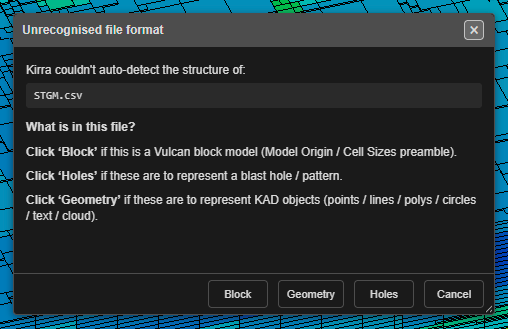
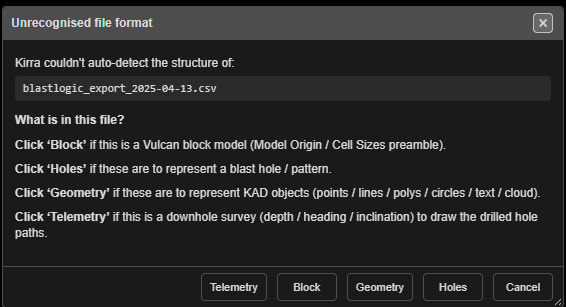
Docs: Custom CSV import rewritten for the new Map Columns layout, charging slots and Charge Check (Kirra 1.1.36.61)
- Map Columns: presets (save, update, delete, export, import), file settings,
  Fields to Import ticks, Column Mapping numbered from 1, Negative below grade,
  burden / spacing / connector curve, previews.
- Charging: slot picker for decks and primers, one deck type for every hole,
  primer Metres above toe, split character and piece, presets keep the slots.
- Charge Check after a charged import: catalogue product pick, Re-check,
  Fix Products, with before / after captures.
- Header matching: two-letter codes only match a whole header.
- Captured from a BlastLogic design export with the DESIGN-BLASTLOGIC preset.

Changed region(s): [[0.0, 0.0, 1.0, 1.0]]

diff --git a/importing/csv-formats.md b/importing/csv-formats.md
@@ -203,70 +203,109 @@ If you have an unusual header layout, use **Custom CSV** instead — it does hea
 
 ## Custom CSV Import
 
-If your CSV does not match a preset (different column order, different field names, extra columns), use **Custom CSV** on the **Blasts** tab of the Import dialog. The separator — comma, tab, semicolon and so on — is detected automatically.
+If your CSV does not match a preset (different column order, different field names, extra columns), use **Custom CSV**. It works with exports from other systems — the example below is a 217-column BlastLogic design export. The separator — comma, tab, semicolon and so on — is detected automatically.
 
 ![Import dialog — Blasts tab](../screenshots/filemanager2.png)
 *Custom CSV is the first entry on the Blasts tab — "Pick your own column order, units, and custom fields".*
 
-1. Open the **Import** dialog
-2. **Blasts** tab → **Custom CSV** → click **Open**
-3. Choose your `.csv` file. (For a `.txt`, drop it onto the canvas and choose **Holes**.)
-4. The **Import CSV: Map Columns** dialog opens — review the auto-detected mapping (or override manually) and click **Import**
+There are two ways in:
+
+- **Import dialog** — **Blasts** tab → **Custom CSV** → **Open**, then choose your file.
+- **Drag and drop** — drop the `.csv` or `.txt` onto the canvas. Kirra asks what is in the file;
+  click **Holes**.
+
+![The Unrecognised file format dialog, asking whether the file holds a block model, holes, geometry or a downhole survey](../screenshots/UnrecognisedCSVBlockChoice.png)
+*A dropped CSV that Kirra cannot place asks what it holds: **Telemetry**, **Block**, **Geometry** or **Holes**.*
+
+Either way the **Import CSV: Map Columns** dialog opens.
 
 ### The Map Columns dialog
 
-![Custom CSV Import — Map Columns dialog](../screenshots/CustomCSVImport-MapColumns.png)
-*Import CSV: Map Columns — file header, dialog-wide settings, column mapping (left), and live preview (right).*
+![Import CSV: Map Columns with the DESIGN-BLASTLOGIC preset applied: settings at the top, Fields to Import ticks on the left, Column Mapping in the middle, and the Original and Mapped Data previews on the right](../screenshots/CustomCSVImport-MapColumns.png)
+*A BlastLogic export with the **DESIGN-BLASTLOGIC** preset applied. The ticks on the left choose
+the fields, the middle column says where each one comes from, and the previews on the right show
+the file and the result.*
 
-The dialog shows the file name and row / column counts at the top, followed by dialog-wide settings, the column mapper, and a live preview.
+The dialog has five parts, top to bottom and left to right:
 
-#### Dialog-wide settings
+1. **Preset** — saved mappings.
+2. **File and settings** — the file name, its rows and columns, and the settings that apply to the
+   whole file.
+3. **Fields to Import** — a tick per Kirra field.
+4. **Column Mapping** — the file column each ticked field comes from, and the charging decks and
+   primers.
+5. **Original Data Preview** and **Mapped Data Preview** — every row of the file, before and after
+   the mapping. Both scroll.
+
+#### Presets
+
+A preset saves everything in the dialog — the settings, the ticks, the mapping and the charging
+slots — so a file from the same source imports in one step next time.
+
+| Control | What it does |
+|---|---|
+| **Preset** dropdown | Applies a saved preset. |
+| **Name** | Type a name, then press **+** to save it. Edit it while a preset is selected to rename that preset. |
+| **+** | Saves the current settings as a new preset. |
+| **Save** | Updates the selected preset from the current settings. |
+| **Bin** | Deletes the selected preset. |
+| **Export** | Saves the selected preset to a JSON file — or every preset in the list when none is selected. |
+| **Import** | Loads presets from a JSON file. |
+
+Presets are kept in Kirra for the workspace you are in. They do not travel in a KAP, so use
+**Export** and **Import** to move them to another workspace or computer.
+
+#### Settings for the whole file
 
 | Control | Purpose |
 |---------|---------|
-| **Header rows to skip** | Number of rows to ignore at the top of the file (default 1) |
-| **Column Detection** | **Auto detect columns** (match the header names — the default), **Use last used column order**, or **Manual - don't detect columns** |
-| **Duplicate Handling** | Radio buttons — **Update by Blast+ID** (default), **Update by location** (0.01 m tolerance), **Skip duplicates** |
-| **Angle Convention** | Dropdown — **Angle (0° = vertical)** for Kirra's native convention, or *Dip (0° = horizontal)* to convert (`90 − value`) |
-| **Diameter Units** | Dropdown — `mm` (default), `m`, `in` — values are converted to mm on import |
+| **Header rows to skip** | Rows to ignore at the top of the file (1 to start with). |
+| **Column Detection** | **Auto detect columns** (match the header names), **Use last used column order**, or **Manual - don't detect columns**. |
+| **Auto-detect spatial rows** | Ticked to start with. See [Smart row detection](#smart-row-detection). |
+| **Duplicate Handling** | **Update by Blast+ID** (the default), **Update by location** (0.01 m tolerance), or **Skip duplicates**. |
+| **Angle Convention** | **Angle (0° = vertical)**, Kirra's own, or **Dip (0° = horizontal)**, converted as 90 − value. |
+| **Diameter Units** | **mm**, **m** or **inches** — converted to mm on import. |
 
-#### Column Mapping panel
+#### Fields to Import
 
-The left side groups Kirra fields by category. Each row has a dropdown — pick which **CSV column** in the file (`Col 1: <name>`, `Col 2: <name>`, …) supplies that Kirra field, or leave it as `-- calculate --` to let Kirra derive it from the other fields.
+The ticks on the left choose which Kirra fields the file supplies. Only ticked fields get a row in
+**Column Mapping**. Fields marked **\*** are required and always imported.
 
 | Group | Fields |
 |-------|--------|
-| **Hole Identifiers** | Blast Name, **Hole ID** (required, marked with *), Hole Type, Row ID, Position ID |
-| **Hole Location - Collar** | **Start X (mE)** *, **Start Y (mN)** *, **Start Z (mRL)** * (all required) |
-| **Hole Location - End/Toe** | End X (mE), End Y (mN), End Z (mRL) |
-| **Hole Location - Grade** | Grade X (mE), Grade Y (mN), Grade Z (mRL) |
-| **Hole Geometry** | Hole Angle/Dip, Hole Bearing, Hole Length, Bench Height (m), Subdrill (m), Diameter |
-| **Timing & Connections** | From Hole ID, Timing Delay (ms), Initiation Time, Tie Color |
+| **Hole Identifiers** | Blast Name, **Hole ID\***, Hole Type, Row ID, Position ID |
+| **Hole Location - Collar** | **Start X(mE)\***, **Start Y(mN)\***, **Start Z(mRL)\*** |
+| **Hole Location - End/Toe** | End X(mE), End Y(mN), End Z(mRL) |
+| **Hole Location - Grade** | Grade X(mE), Grade Y(mN), Grade Z(mRL) |
+| **Hole Geometry** | Hole Angle/Dip, Hole Bearing, Hole Length, Bench Height(m), Subdrill(m), Diameter, Burden (m), Spacing (m) |
+| **Timing & Connections** | From Hole ID, Timing Delay (ms), Initiation Time, Tie Color, Connector Curve (°) |
 | **Measured Values** | Measured Length, Measured Mass, Measured Comment |
-| **Charging (decks & primers)** | Shown when the file has deck or primer columns — see [Charging columns](#charging-columns-v10270) |
 
-Required fields are marked with **`*`** and shaded pink in the preview until mapped.
+#### Column Mapping
 
-A preset bar at the top of the dialog saves a mapping, so a file from the same source
-imports in one click next time.
+Each ticked field has a dropdown listing the file's columns as **Col 1: name**, **Col 2: name**
+and so on, numbered from 1 as a spreadsheet counts them. An empty column is marked **(empty)** and
+cannot be picked. A field that is not required can be left on **-- calculate --**, and Kirra
+derives it from the others.
 
-#### Live preview panels (right side)
+**Subdrill** has one extra tick:
 
-| Panel | Shows |
-|-------|-------|
-| **Original Data Preview** | Top of the source file with column names as Kirra read them |
-| **Mapped Data Preview** | What each Kirra field will receive after the mapping is applied. Pink-highlighted cells are required fields that are not yet mapped |
+- **Negative below grade** — tick it when the file stores subdrill as a negative number below grade,
+  as BlastLogic's *Design charge standoff* does. Kirra flips the sign, so a −0.3 in the file becomes
+  0.3 m of subdrill.
 
-#### Footer
+#### Previews and the footer
 
-| Button | Action |
-|--------|--------|
-| **Cancel** | Discard the mapping and close |
-| **Import** *(green)* | Apply the mapping, run the parser, and load the holes |
+The **Mapped Data Preview** shows what each Kirra field will receive. A required field that is not
+mapped yet is shaded pink. **Import** (green) loads the holes; **Cancel** closes without importing.
+
+After the import a message says how many holes came in, for example *Imported 370 holes
+successfully*. If charging came in too, **Charge Check** follows — see
+[Check the charging](#check-the-charging).
 
 ### Header auto-detection
 
-`CsvColumnAutoDetect.autoDetectColumns()` scans the header row, normalises each header (lowercase, alphanumeric only), and matches against a keyword list per Kirra field. Match priority:
+With **Auto detect columns**, Kirra reads each header in lower case with the punctuation removed, and matches it against a list of names for each Kirra field. Match priority:
 
 1. **Exact match**
 2. **Longest matching keyword**
@@ -283,6 +322,9 @@ Examples of headers Kirra recognises out of the box:
 | `Bearing`, `Azimuth` | `holeBearing` |
 | `Dip` | interpreted via `angle_convention` (dip-from-horizontal converts to Kirra's angle-from-vertical as `90 − value`) |
 | `Diameter`, `Dia` | `holeDiameter` (with unit conversion) |
+
+Short codes of two letters — `cx`, `cy`, `gx`, `gy`, `tx`, `rl` and so on — only match a header that is
+that code alone, ignoring a unit in brackets: `GY (m)` matches Grade Y, but `Energy` does not.
 
 A bare `X`, `Y` or `Z` header is deliberately **not** matched: it would also match `EndX`,
 `ToeX` and so on. Map those columns by hand. Any header Kirra does not recognise can be
@@ -302,7 +344,7 @@ Subdrill is always the **vertical Δz**, not along-hole.
 
 ### Smart row detection
 
-For files without explicit `rowID` / `posID` (this always runs):
+For files without a Row ID or Position ID:
 
 - **Alphanumeric IDs** (e.g. `A1, A2, B1`) — letter becomes the row, number becomes the position
 - **Pure numeric** — fits holes to linear sequences using collar XY (tolerance `2 × diameter`)
@@ -335,13 +377,85 @@ Invalid coordinates **do not abort** the import:
 - `grade ← collar` when the grade is bad
 - The rows that fell back are listed in the browser console
 
-### Charging columns (v1.0.270+)
+### Charging columns
 
-When the first row has any `deck…[N]` or `primer…[N]` header (e.g. `deckType[1]`, `primerDepth[2]`), the dialog shows **Import charging (N decks, M primers per hole)**, ticked. Each hole's charging is rebuilt from the deck and primer cells, including verbatim `fx:` formula strings. Untick it to import the holes without charging; the slot list lets you check or change which columns feed each deck and primer.
+**Charging (decks & primers)** sits at the bottom of **Column Mapping**. It brings each hole's decks
+and primers in with the holes.
 
-Round-trip is full for design, formulas, and primer assignments — but live formula re-evaluation does not happen on import. The imported numeric values are the source of truth until a charge rule is next applied to the holes.
+- When the first row has bracketed headers such as `deckType[1]` or `primerDepth[2]` — the columns
+  Kirra's own **Custom CSV** export writes — the tick reads **Import charging (N decks, M primers per
+  hole)**, already ticked, and the slots fill themselves.
+- When it has none, the tick reads **No charging columns detected — tick to map them below**. Tick it
+  and map the decks and primers by hand from whatever columns the file has.
 
-To see the exact charging columns Kirra writes, export a charged blast with **Custom CSV** — see [CSV Export](../exporting/csv-export.md).
+Untick it to import the holes without charging.
+
+![The Charging Decks and Charging Primers slots, mapped from a BlastLogic export: an inert stemming deck, a coupled explosive deck, and a primer with its detonator and booster](../screenshots/CustomCSVImport-ChargingSlots.png)
+*Charging mapped by hand from a BlastLogic export: a stemming deck, an explosive deck, and one primer.*
+
+#### Decks
+
+**Charging Decks** holds one slot per deck, numbered from the collar down. **Auto from Deck Headers**
+builds the slots from bracketed deck headers when the file has them. Each slot has:
+
+| Row | Maps |
+|---|---|
+| **Deck type** | A column, or one type for every hole: **Inert (stemming, air)**, **Coupled (bulk explosive)**, **Decoupled (packaged explosive)** or **Spacer (gas bag, plug)**. |
+| **Product** | The product name. |
+| **Top depth** / **Base depth** | Where the deck starts and ends, as depths down the hole. |
+| **Density** | The product density, if the file carries one. |
+
+#### Primers
+
+**Charging Primers** holds one slot per primer:
+
+| Row | Maps |
+|---|---|
+| **Depth** | A depth column, or **Metres above toe** with a distance in the box: the same height above the toe for every hole. |
+| **Detonator** / **Detonator qty** | The detonator name and how many. |
+| **Booster** / **Booster mass** | The booster name and its mass. |
+
+#### Every slot row
+
+Each row in a slot has three parts:
+
+1. **The column** the value comes from, or **— not mapped —**.
+2. **Split** — when one cell holds several values, the character that separates them: **comma**,
+   **semicolon**, **pipe**, **slash** or **space**. **no split** uses the whole cell.
+3. **Piece** — which piece of the split cell to use, counting from 1.
+
+Use **+** under the decks or the primers to add a slot (*Map a deck from other columns*, *Map a primer
+from other columns*), and the bin on a slot to remove it. A preset saves the slots, so hand-mapped
+charging comes back with the preset.
+
+Formula cells (`fx:`) in Kirra's own export come in as written, but they are not re-evaluated on
+import. The imported numbers stand until a charge rule is next applied to the holes.
+
+To see the exact charging columns Kirra writes, export a charged blast with **Custom CSV** — see
+[CSV Export](../exporting/csv-export.md).
+
+### Check the charging
+
+When charging comes in, **Charge Check** opens after the import. It lists what would stop the holes
+firing as designed:
+
+- **Products not in your catalogue** — a product the file names that your
+  [product catalogue](../charging/product-manager.md) does not have. Those decks carry only the name
+  and density from the file. Pick a catalogue product in **Use catalogue product** and every deck
+  that uses that name switches to it at once.
+- **Holes that will not fire** — for example, every charge deck calculates to zero mass. The holes are
+  listed by ID.
+
+| Before | After one pick |
+|---|---|
+| ![Charge Check after a BlastLogic import: AquaMAX1270 1.15 is not in the catalogue, and all 370 holes calculate to zero mass](../screenshots/ChargeCheckAfterCsvImport.png) | ![Charge Check after picking EMULGEX CORE 70 1.15: the imported charging looks complete](../screenshots/ChargeCheckResolved.png) |
+| The file's AquaMAX1270 1.15 is not in this catalogue, so all 370 holes have no explosive mass. | Picking a catalogue product of the same density fixes all 370 decks. |
+
+| Button | What it does |
+|---|---|
+| **Fix Products…** | Opens the Product Manager beside Charge Check, to add or correct a product. |
+| **Re-check** | Checks the holes again, so the list shrinks as you fix things. |
+| **Close** | Closes Charge Check. Anything not fixed can be corrected later in the Deck Builder. |
 
 ---
 
